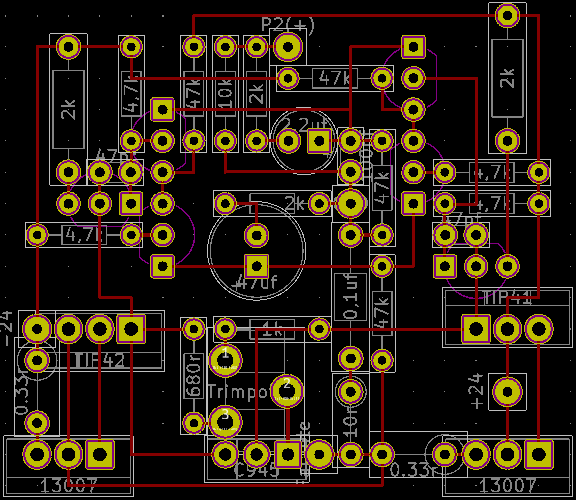
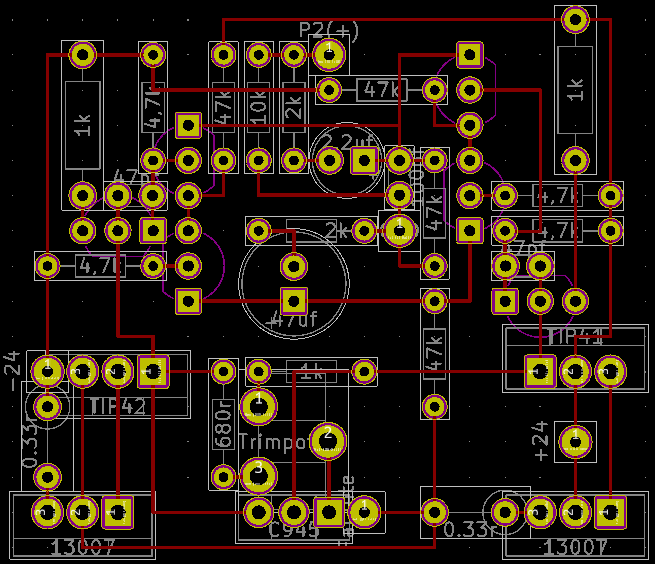
[corrigido][esquema][layout]R12 & R13 de 2k para 1k [removido][esquema][layout]R19 & C8

Changed region(s): [[0.0, 0.0, 1.0, 1.0]]

diff --git a/README.md b/README.md
@@ -1,4 +1,4 @@
-# 3.0 beta
+# 3.0
 ## SCHEME
 ![img.png](img.png)
 
@@ -11,14 +11,14 @@
 
 ## MODELO FÍSICO
 ### SUPERIOR
-`versão não funcionou`
+`Desatualizado`
 ![image](https://github.com/robinsonmourao/Esquema-eletrico-e-pcb-amplificador-classe-ab-duplo-par-diferencial/assets/49078615/e612de79-5c44-4e6e-85cb-272185aaece6)
 
 ### INFERIOR
-`versão não funcionou`
+`Desatualizado`
 ![image](https://github.com/robinsonmourao/Esquema-eletrico-e-pcb-amplificador-classe-ab-duplo-par-diferencial/assets/49078615/ed6acb4c-ea09-4459-b0ff-0f9d373b838d)
 
-# 2.0-2.1 beta
+# 2.1 beta - 2.0
 ## SCHEME
 ![image](https://github.com/robinsonmourao/Esquema-eletrico-e-pcb-amplificador-classe-ab-duplo-par-diferencial/assets/49078615/ebb6260e-ead8-481c-93a1-565f8e1224f5)
 
@@ -32,11 +32,11 @@
 ### SUPERIOR 2.1 beta
 `versão não funcionou`
 ![image](https://github.com/robinsonmourao/Esquema-eletrico-e-pcb-amplificador-classe-ab-duplo-par-diferencial/assets/49078615/4f658415-0e24-411f-9cdd-57e0695a1d3b)
-### SUPERIOR 2.0
-![image](https://github.com/robinsonmourao/Esquema-eletrico-e-pcb-amplificador-classe-ab-duplo-par-diferencial/assets/49078615/a75e007b-b757-4d72-97fa-a17ad19e1185)
 ### INFERIOR 2.1 beta
 `versão não funcionou`
 ![image](https://github.com/robinsonmourao/Esquema-eletrico-e-pcb-amplificador-classe-ab-duplo-par-diferencial/assets/49078615/0e240a1f-5443-4c54-98ca-5c214eee2ec4)
+### SUPERIOR 2.0
+![image](https://github.com/robinsonmourao/Esquema-eletrico-e-pcb-amplificador-classe-ab-duplo-par-diferencial/assets/49078615/a75e007b-b757-4d72-97fa-a17ad19e1185)
 ### INFERIOR 2.0
 ![image](https://github.com/robinsonmourao/Esquema-eletrico-e-pcb-amplificador-classe-ab-duplo-par-diferencial/assets/49078615/d22c9fb6-e12d-4d64-a49b-22e36a6f380d)
 
